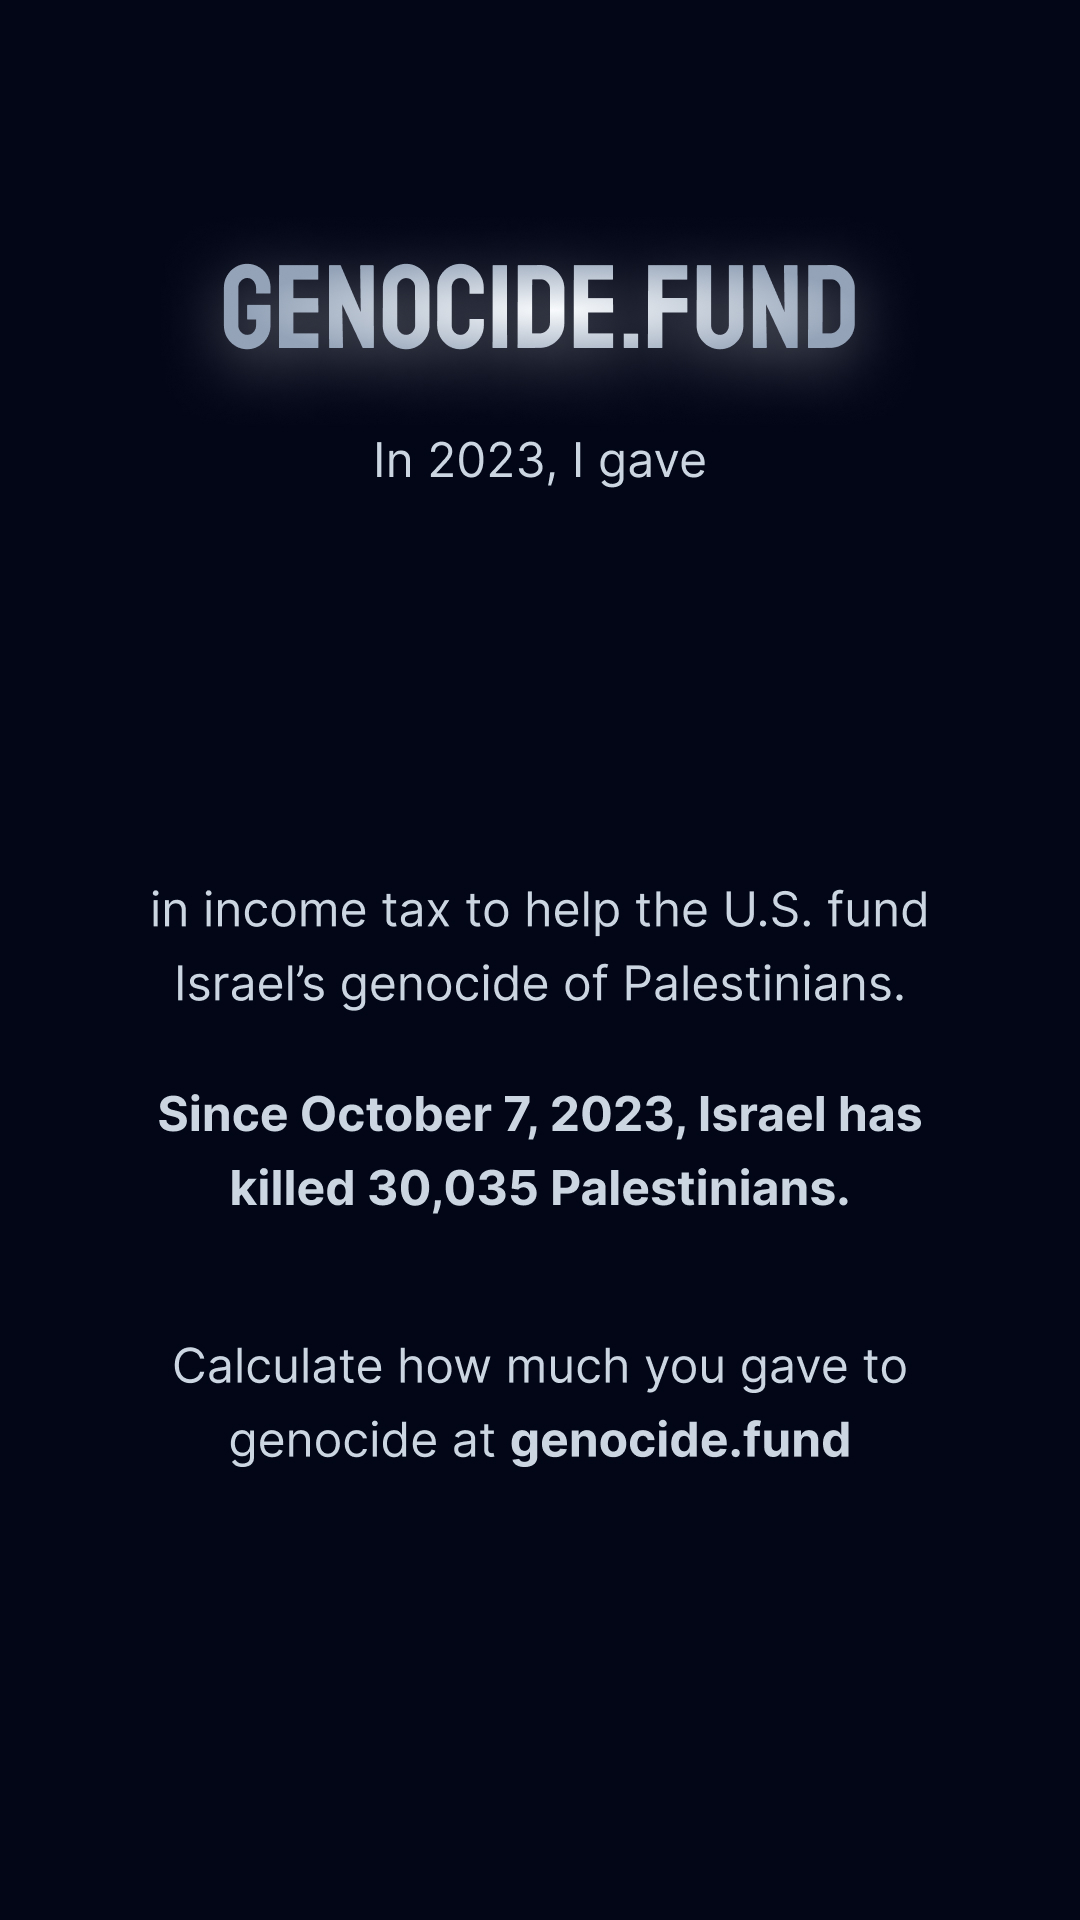
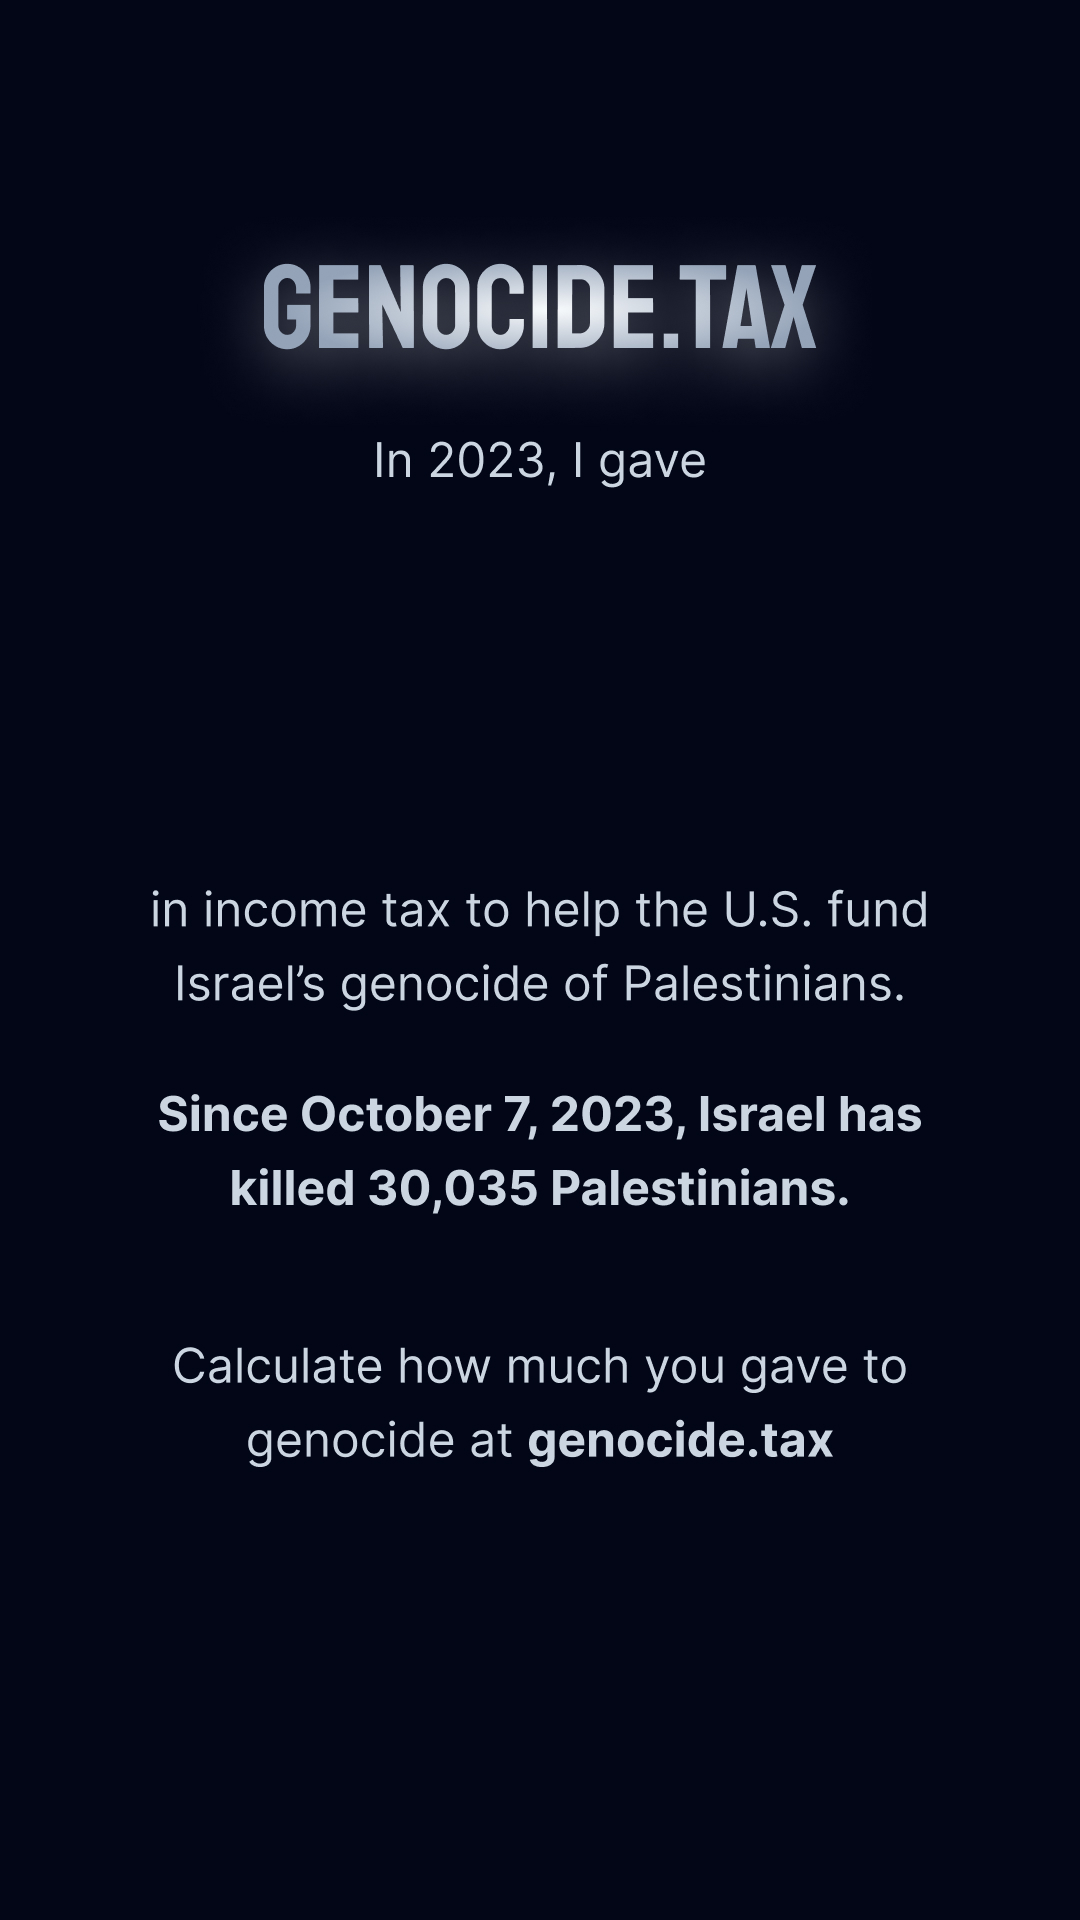
touch ups

Changed region(s): [[0.1833, 0.125, 0.7944, 0.1875], [0.2139, 0.7188, 0.7333, 0.7812], [0.7333, 0.7188, 0.7944, 0.7812]]

diff --git a/script.js b/script.js
@@ -14,6 +14,7 @@ openDisclosure.addEventListener('click', () => {
 
 
 const submitBtn = document.getElementById('submit-btn');
+const deltaDiv = document.getElementById('delta');
 const resultDiv = document.getElementById('result');
 const resultsBlock = document.getElementById('results-block');
 const intro = document.getElementById('intro');
@@ -34,11 +35,14 @@ const calculateTaxes = (e) => {
   e.preventDefault();
 
   const taxAmountInput = document.getElementById('tax-amount');
-  taxAmount = 0.008270232041 * Number(taxAmountInput.value.replace(/[^0-9.]/g, ''));
+  cleanAmount = Number(taxAmountInput.value.replace(/[^0-9.]/g, ''));
+  taxAmount = 0.008277 * cleanAmount;
+  const delta2022 = taxAmount - 0.00172970916 * cleanAmount;
 
   formattedTaxAmount = formatCurrency(taxAmount);
 
   resultDiv.textContent = `${formattedTaxAmount}`;
+  deltaDiv.textContent = `${delta2022.toLocaleString('en-US', { style: 'currency', currency: 'USD' })}`;
   donateAmount.textContent = `${formattedTaxAmount}`;
   resultsBlock.classList.remove('hidden');
   formWrapper.classList.add('hidden');           
@@ -47,7 +51,7 @@ const calculateTaxes = (e) => {
   linkedInShare.href= `https://www.linkedin.com/shareArticle?url=https%3A%2F%2Fgenocide.tax%2F&title=Calculate%20Your%20Genocide%20Tax%20Amount&summary=In%202023%2C%20my%20U.S%20taxes%20gave%20${encodeURIComponent(formattedTaxAmount)}%20to%20Israel%20to%20kill%2030%2C000%20Palestinians%20in%20Gaza.&source=`
   whatsAppShare.href= `https://api.whatsapp.com/send?text=In%202023%2C%20my%20U.S%20taxes%20gave%20${encodeURIComponent(formattedTaxAmount)}%20to%20Israel%20to%20kill%2030%2C000%20Palestinians%20in%20Gaza.%20Calculate%20your%20genocide%20tax%20amount%20at%20https%3A%2F%2Fgenocide.tax%2F
 `
-  fbShare.href= `https://www.facebook.com/sharer/sharer.php?u=${encodeURIComponent("https://f82a4daf-a628-46d3-ab11-bd67e1d69bd5-00-1s605t1h4tb4l.picard.replit.dev/?tax-amount")}F`
+  fbShare.href= `https://www.facebook.com/sharer/sharer.php?u=${encodeURIComponent("https://genocide.tax")}`
 
 };
 

diff --git a/index.html b/index.html
@@ -27,7 +27,7 @@
       class="w-full max-w-[550px] grow shrink basis-0 self-stretch flex-col justify-center items-center gap-8 inline-flex p-4">
       <h1
         style="background: radial-gradient(47.81% 47.81% at 52.19% 50%, #F8FAFC 0%, #94A3B8 100%); background-clip: text; -webkit-background-clip: text; -webkit-text-fill-color: transparent;"
-        class="text-center text-slate-50 text-5xl md:text-7xl font-normal font-['Staatliches'] ">Genocide.tax</h1>
+        class="shine-effecttext-center text-slate-50 text-5xl md:text-7xl font-normal font-['Staatliches'] ">Genocide.tax</h1>
       <div id="intro" class="text-center">
         <strong class="text-slate-200 font-bold">The U.S. will give $18.3 billion in aid to Israel this year.</strong>
         <p class="text-slate-200 font-normal leading-7">Have your tax dollars been funding genocide?</p>
@@ -39,8 +39,7 @@
           <div id="result" class="text-6xl md:text-8xl font-extrabold text-slate-200"
             style="background: radial-gradient(47.81% 47.81% at 52.19% 50%, #F8FAFC 0%, #94A3B8 100%); background-clip: text; -webkit-background-clip: text; -webkit-text-fill-color: transparent">
           </div>
-          to help the U.S. fund Israel’s genocide of Palestinians.
-          <div>That’s enough to buy 5 9mm cartridges, used in American-made Ingram MAC-10s used by the IDF. </div>
+          <div>to help the U.S. fund Israel’s genocide of Palestinians. That's <span id="delta" class="font-bold"></span> more than it would have been without this year's $14.3 billion in funding that Biden has asked for.</div>
           <div class="font-bold">Since October 7, 2023, Israel has killed 30,035 Palestinians.</div>
         </div>
         <div class="flex flex-col gap-y-8">
